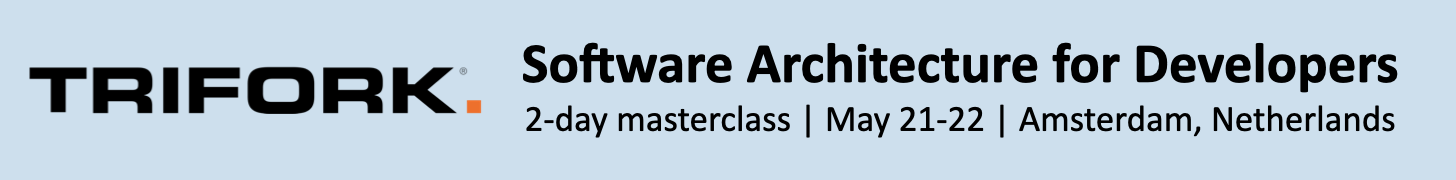
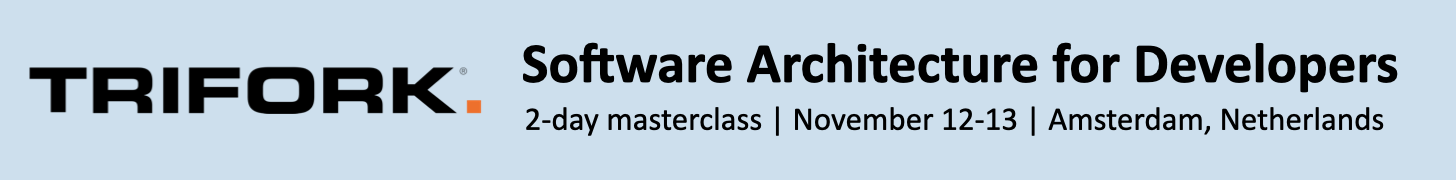
Update Trifork ad.

Changed region(s): [[0.34, 0.5833, 0.9581, 0.75]]

diff --git a/assets/js/ad.js b/assets/js/ad.js
@@ -12,7 +12,7 @@ const ads = [
     {
         img: 'trifork-nl.png',
         href: 'https://trifork.nl/academy/our-courses/software-architecture-for-developers/',
-        expiry: new Date('2025-05-20')
+        expiry: new Date('2025-11-11')
     },
     {
         img: 'ddd-europe.png',
